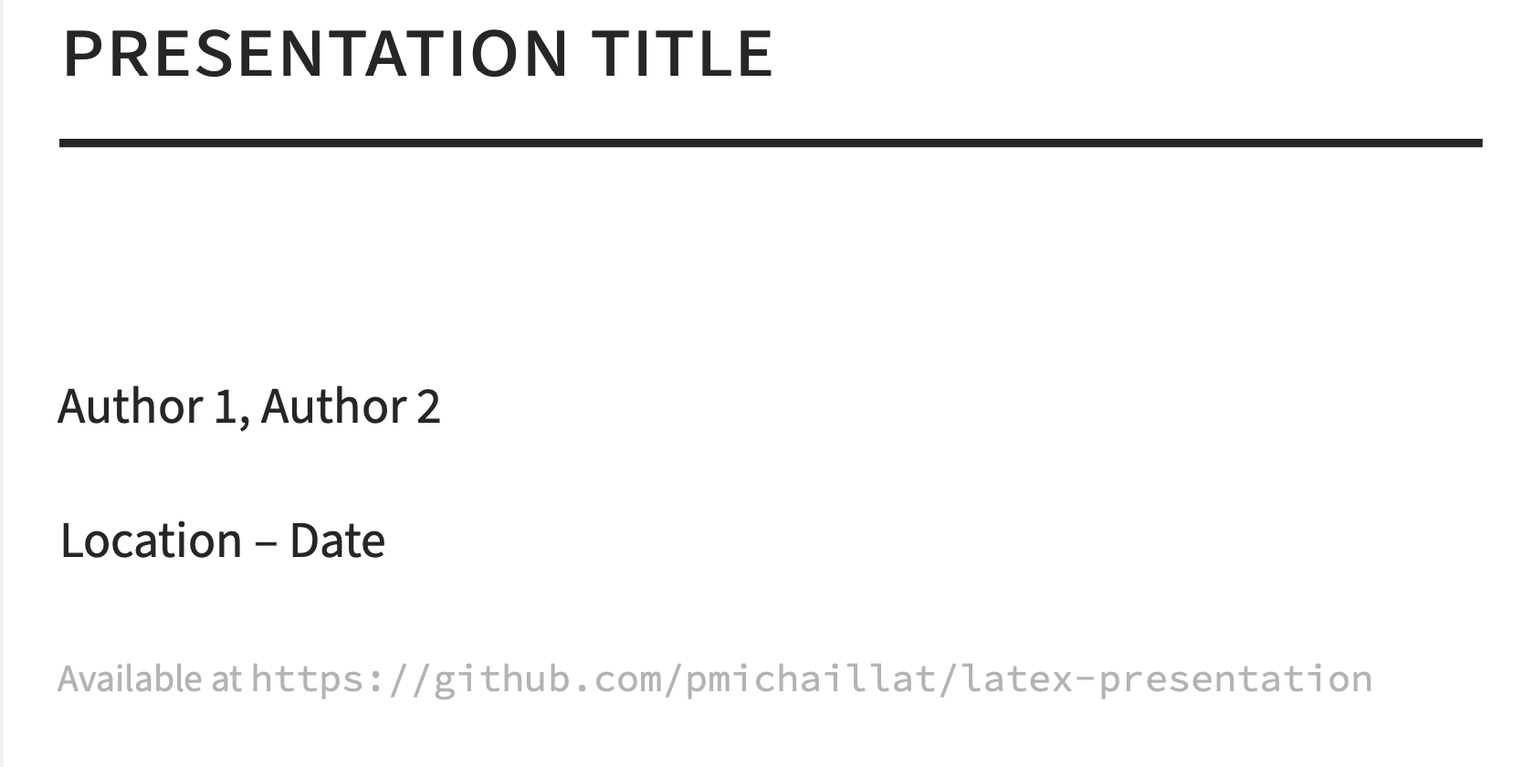
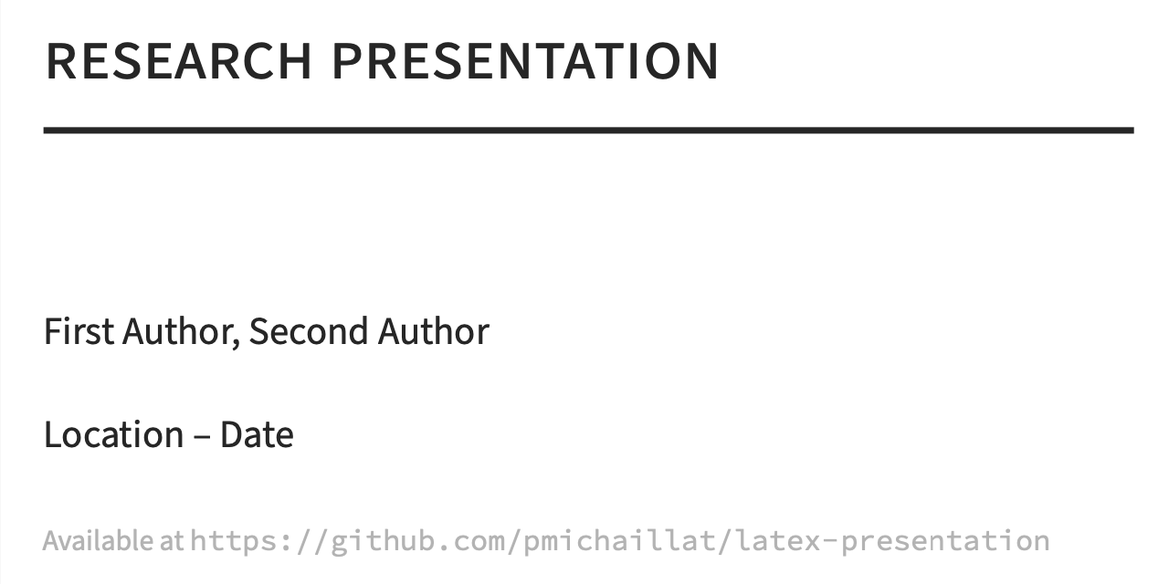
Update documentation of presentation template

diff --git a/content/design/d1.md b/content/design/d1.md
@@ -1,6 +1,7 @@
 ---
 title: "Minimalist LaTeX Template for Academic Presentations" 
 date: 2024-06-28
+lastmod: 2024-06-29
 url: /d1/
 author: "Pascal Michaillat"
 description: "This template produces an academic presentation with LaTeX and Beamer. The presentation follows typographical best practices and has a minimalist design."
@@ -30,34 +31,34 @@ The template produces an academic presentation using [LaTeX](https://www.latex-p
 
 ## Features
 
-+ The aspect ratio is set to 4:3.
++ The aspect ratio is 4:3.
 + There are no frills at the periphery of the slides.
 + The font for text, roman math, and numbers is Source Sans Pro.
 + The font for monospaced text (including URLs) is Source Code Pro.
 + The font for Greek and calligraphic math is Euler.
 + The font for blackboard bold is Fourier.
 + The font for mathematical symbols is MnSymbol.
-+ No colors are used in the text (only grayscale) to reduce distraction; colors are reserved for graphs and alerts.
++ No colors are used in the text (only grayscale) to reduce distraction; colors are reserved for figures and text alerts.
 + Margins, spacing, and font size are set for comfortable reading.
-+ Formatting is specified for figures and tables.
 + Formatting is specified for theorems, propositions, lemmas, definitions, assumptions, corollaries, and remarks.
++ Formatting is specified for figures and tables.
 + Section slides and final slide can easily be inserted into the presentation.
 
 <div class="thinline"></div>
 
 ## 4:3 versus 16:9 aspect ratio
 
-There has been a shift from slides with a 4:3 aspect ratio to wider slides with a 16:9 aspect ratio. This template sticks to the 4:3 aspect ratio. 
+There has been a shift from slides with a 4:3 aspect ratio to wider slides with a 16:9 aspect ratio. This template sticks to the traditional 4:3 aspect ratio. 
 
 First, 4:3 slides are more robust. They are easily readable will all projectors, both new and old. By contrast, the text of 16:9 slides becomes very small when they are displayed on old 4:3 projectors.
 
-Second, 4:3 slides are better at effectively presenting supporting information. And slides are here as support, not as a substitute, for what the speaker is talking about. 4:3 slides force presenters to display only essential information on slides—leading to more effective presentations. 16:9 slides are often used to present two graphs at a time, or two paragraphs at a time, or a graph with some side text. This is confusing and possibly distracting for the audience, who does not know what to look at, and may be looking at the wrong part of the slide. 4:3 slides can only display one graph or one paragraph at a time—focusing the attention of the audience on that one piece of information. 
+Second, 4:3 slides are better at effectively presenting supporting information. And slides are here as support, not as a substitute, for what the speaker is talking about. 4:3 slides force presenters to display only essential information on slides—leading to more effective presentations. 16:9 slides are often used to present two graphs at a time, or two paragraphs at a time, or a graph with some side text. This is confusing and possibly distracting for listeners, who do not know what to look at, and may be looking at the wrong part of the slide. 4:3 slides can only display one graph or one paragraph at a time—focusing the attention of the audience on that one piece of information. 
 
 Third, lines of text on 16:9 slides are often excessively long. The lines cannot be read at one glance, so reading them distracts from the presentation. 
 
 Fourth, 4:3 slides work better on tablets because most tablets have a 4:3 aspect ratio (iPads for instance). It has becomes very common to read or display slides on tablets, or watch online presentation on tablets. In that context, 4:3 slides display better.
 
-Sometimes, however, host institutions or conferences require to use 16:9 aspect ratio. The template can be adjusted to produce such slides. Just add the `aspectratio=169` option to the `\documentclass` command. Specifically, to produce a 16:9 presentation, the first line of the `presentation.tex` file should be:
+Sometimes, however, host institutions or conferences require presenters to use 16:9 aspect ratio. The template can be adjusted to produce such slides. Just add the `aspectratio=169` option to the `\documentclass` command. Specifically, to produce a 16:9 presentation, the first line of `presentation.tex` should be:
 
 ```tex
 \documentclass[11pt,aspectratio=169,xcolor={dvipsnames},hyperref={pdftex,pdfpagemode=UseNone,hidelinks,pdfdisplaydoctitle=true},usepdftitle=false]{beamer}
@@ -67,27 +68,45 @@ Sometimes, however, host institutions or conferences require to use 16:9 aspect 
 
 ## Text font
 
-Fonts matter in presentations—just as in papers. The font determines the appearance of the entire presentation. For the presentation's text, the template uses [Source Sans Pro](https://www.fontsquirrel.com/fonts/source-sans-pro), which is one of the free fonts [recommended by Matthew Butterick](https://practicaltypography.com/free-fonts.html).
+Fonts matter in presentations—just as in papers. The font determines the appearance and readability of the entire presentation. For the presentation's text, the template uses [Source Sans Pro](https://mirror.las.iastate.edu/tex-archive/fonts/sourcesanspro/doc/sourcesanspro.pdf), which is one of the free fonts [recommended by Matthew Butterick](https://practicaltypography.com/free-fonts.html).
 
-Source Sans Pro is a sans-serif font. This is an important feature for presentations, as sans-serif fonts are more readable than fonts with serif in presentations. Another advantage of Source Sans Pro is that it is not part of typical slide templates (unlike Fira Sans for instance),  so it feels new and fresh. And since Source Sans Pro was designed in the last decade, it also feels modern.
+Source Sans Pro is a sans-serif font. This is an important feature, as sans-serif fonts are more readable than fonts with serif in presentations. Another advantage of Source Sans Pro is that it is not part of typical slide templates (unlike Fira Sans for instance), so it feels new and fresh. And since Source Sans Pro was designed in the last decade, it also feels modern.
 
-Moreover, the Source Pro family includes a very nice monospaced font: [Source Code Pro](https://www.fontsquirrel.com/fonts/source-code-pro). The template uses Source Code Pro as monospaced font—giving the monospaced text and regular text a similar look. The monospaced font is used in particular to typeset URLs.
+Moreover, the Source Pro family includes a nice monospaced font: [Source Code Pro](https://mirrors.rit.edu/CTAN/fonts/sourcecodepro/doc/sourcecodepro.pdf). The template uses Source Code Pro as monospaced font—giving the monospaced text and regular text a similar look. The monospaced font is used in particular to typeset URLs.
 
-Another advantage of Source Sans Pro is that there is a with-serif font in the Source Pro family: [Source Serif Pro](https://www.fontsquirrel.com/fonts/source-serif-pro). This [paper template](/d2/) uses Source Serif Pro, which gives presentations and papers produced by the two templates a similar look.
+Another advantage of Source Sans Pro is that it comes with a broad range of weight. For instance, the template uses the semibold font weight in places. To activate the semibold font instead of the usual bold font, use `\sbseries` and `\textsb{}` instead of `\bfseries` and `\textbf{}`.
+
+A last advantage of Source Sans Pro is that there is a with-serif font in the Source Pro family: [Source Serif Pro](https://mirror.las.iastate.edu/tex-archive/fonts/sourceserifpro/doc/sourceserifpro.pdf). This [paper template](/d2/) uses Source Serif Pro, which gives the presentations and papers produced by the two templates a similar look.
 
 <div class="thinline"></div>
 
-## Math font
+## Math fonts
 
-LaTeX uses one font for text and other fonts for math. For consistency, the template sticks with Source Sans Pro for roman math. It also uses Source Sans Pro for all the numbers in math and for very basic math symbols (such as `+`, `.`, `–`, `?`, `/`, `%`, `=`), so very basic mathematical expressions look the same in math and text. For example, the commands `1+5` and `$1+5$` produce the same result. The same is true of the command `3\% + 5\% = 0.08` and `$3\% + 5\% = 0.08$`.
+LaTeX uses one font for text and other fonts for math. For consistency, the template sticks with [Source Sans Pro for roman math](https://ctan.mirrors.hoobly.com/macros/latex/contrib/mathastext/mathastext.pdf). It also uses Source Sans Pro for all the digits in math and basic punctuation (such as `.`, `?`, `%`, `;`, and `,`), so very basic mathematical expressions look the same in math and text. For example, the commands `3.5\%` and `$3.5\%$` produce the same results.
 
-There are some sans-serif Greek alphabets, but the letters look unusual and are hard to recognize. So for the Greek letters in math, the template uses the [Euler font](http://luc.devroye.org/fonts-26139.html). These Greek letters look good, have the same thickness as the text letters, and are quite distinctive.
+### Greek letters
 
-The template also uses the Euler font for calligraphic letters in math. These calligraphic letters fit well with the rest of the text and are very readable.
+There are some sans-serif Greek alphabets, but the letters look unusual and are hard to recognize. So for the Greek letters in math, the template uses the [Euler font](https://ctan.math.utah.edu/ctan/tex-archive/fonts/eulervm/doc/latex/eulervm/eulervm.pdf). These Greek letters look good, have the same thickness and height as the text letters, and are distinctive. For consistency, neither uppercase nor lowercase Greek letters are italicized.
 
-The template uses a simple [geometric sans-serif font](https://ctan.org/pkg/bbold) as blackboard bold font. It is cleaner than the default blackboard bold font. And it includes not only roman letters but also Arabic numbers and Greek letters—which are often omitted in blackboard bold fonts.
+All the standard Greek letters are available. A few variants are available as well: `\varepsilon`, `\varpi`, `\varphi`, and `\vartheta`. The variants `\varrho`, `\varsigma`, and `\varkappa` are not available with the Euler font.
 
-Finally, the template use the Symbol font for many symbols in math. The default Computer Modern symbols are very light and thin in comparison to the Source Sans Pro and Euler letters, and as a result do not mix well with them. The advantage of the Symbol font is that its symbols are thicker, so they mix better with the letters. The symbols are also less curly, which gives them a more modern feel.
+### Calligraphic letters
+
+The template also uses the [Euler font](https://ctan.math.utah.edu/ctan/tex-archive/fonts/eulervm/doc/latex/eulervm/eulervm.pdf) for calligraphic letters in math. These calligraphic letters fit well with the other fonts and are very readable. The calligraphic letters are produced with the `\mathcal{}` command.
+
+### Blackboard-bold letters
+
+The template uses the [Fourier font](https://mirror.mwt.me/ctan/macros/latex/contrib/mathalpha/doc/mathalpha-doc.pdf) as blackboard-bold font. It is cleaner than the default blackboard-bold font as it does not have serif. And it is slightly thicker than the default font so it matches well with Source Sans Pro and the Euler letters. The blackboard-bold letters are produced with the `\mathbb{}` command. 
+
+### Bold characters
+
+In the template, it is possible to bold any mathematical character (except blackboard-bold letters). This can be done using the `\bm{}` command in math. 
+
+### Mathematical symbols
+
+Finally, the template use the [MnSymbol font](https://ftp.yz.yamagata-u.ac.jp/pub/CTAN/fonts/mnsymbol/MnSymbol.pdf) for the symbols used in math mode. The default Computer Modern symbols are too light and thin in comparison to the Source Sans Pro and Euler letters, and as a result do not mix well with them. The advantage of the MnSymbol font is that its symbols are thicker, so they mix better with the letters. The symbols are also less curly, which gives them a more modern feel.[^1] 
+
+[^1]: The `MnSymbol` package is incompatible with the `amssymb` package. So it is not possible to load `amssymb` with the template. Neither should it be required since `MnSymbol` provides a vast collection of symbols.
 
 <div class="thinline"></div>
 
@@ -101,7 +120,7 @@ The template keeps one font size for all text. So the text is not smaller at dif
 
 ## Line spacing
 
-The line spacing is generous: 150% of the point size. This adds white space to the presentation, which helps with reading, and it limits the amount of stuff that can be written on one slide. There is a small amount of additional vertical spacing between items in lists to separate the items better. 
+The line spacing is 150% of the point size. This adds white space to the presentation, which helps with reading, and it limits the amount of stuff that can be written on one slide. There is a small amount of additional vertical spacing between items in lists to separate the items better. 
 
 <div class="thinline"></div>
 
@@ -113,7 +132,11 @@ The information on the title slide, section titles, frame titles, and regular te
 
 ## Color scheme
 
-[As Butterick says](https://practicaltypography.com/presentations.html), color should be used with restraint. A lot of colors, especially bright ones, are distracting. To reduce distraction, the template only uses grayscale. The text is in dark gray (85% black), not complete black, to avoid an uncomfortable degree of contrast. The list items (bullet points and numbers) are in lighter gray, to blend in the background.  Colors are reserved for graphs and text alerts. The typical, bright Beamer bullet points should be avoided as they are distracting.
+[As Butterick says](https://practicaltypography.com/presentations.html), color should be used with restraint. A lot of colors, especially bright ones, is distracting. To reduce distraction, the template only uses grayscale. The text is in dark gray (85% black), not complete black, to avoid an uncomfortable degree of contrast. The list items—bullet points and numbers—are in lighter gray, to blend in the background.[^2] Colors are reserved for figures and text alerts. 
+
+The typical, bright Beamer bullet points, headers, and footers, should be avoided as they are distracting.
+
+[^2]: The template customizes formatting for three levels of itemized and numbered lists. More deeply nested lists should be avoided as they are a sign that the presentation's organization is too messy.
 
 <div class="thinline"></div>
 
@@ -124,36 +147,35 @@ A [typical slide produced with Beamer](https://deic.uab.cat/~iblanes/beamer_gall
 + Outline of the talk above the title
 + Small navigation buttons in the bottom right-hand corner
 + Names of the authors and title of the talk at the bottom of the slide
-+ A lot of dark, sharp color at the top and bottom
 
 Such clutter distracts listeners and takes their attention away from the main message of the slide—while conveying no useful information. The audience does not need that information in the middle of the talk. The slides produced by the template are devoid of such frills. 
 
 In particular, the pesky navigation buttons are eliminated by placing 
-`\setbeamertemplate{navigation symbols}{} ` in the `presentation.sty` file.
+`\setbeamertemplate{navigation symbols}{} ` in `presentation.sty`.
 
 <div class="thinline"></div>
 
 ## Slide numbers
 
-By default the slides are not numbered. This seems better for most presentations. It seems that displaying slide numbers does nothing but makes the audience jittery at the thought of the sheer number of slides that remain to be covered in the talk.
+By default the slides are not numbered. This seems better for most presentations. Displaying slide numbers does nothing but makes the audience jittery at the thought of the sheer number of slides that remain to be covered in the talk.
 
-But for anyone who needs to share slide decks for comments, or who gives a presentation specifically to collect feedback, it might be helpful to have slides numbers—so the comments can be precisely linked to a slide. To introduce page numbers on slide, just comment the line `\setbeamertemplate{footline}{}` in the style file `presentation.sty`, and uncomment the line `\setbeamertemplate{footline}[frame number]`.
+But for anyone who wants to share the slide deck for comments, or who gives a presentation specifically to collect feedback, it might be helpful to have slides numbers—so the comments can be precisely linked to a slide. To introduce page numbers on slide, just uncomment the line `\setbeamertemplate{footline}[frame number]` in `presentation.sty`.
 
-With slide numbers, it is possible to remove the slide number from the title slide only. To do that, use \frame[plain]{\titlepage} instead of \frame{\titlepage} in `presentation.tex`. The page numbers will start appearing on the second slide.
+Once slide numbers are inserted at the bottom of all slides, it is possible to remove the slide number from the title slide. To do that, use `\frame[plain]{\titlepage}` instead of `\frame{\titlepage}` in `presentation.tex`. The page numbers will start appearing on the second slide.
 
 <div class="thinline"></div>
 
 ## Title slide
 
-The title slide avoids centered text and is otherwise pretty minimalist. The title is in large font (21pt), in small caps, and accentuated by a black line. Authors and dates are in slightly larger font than the text (12pt). The title slide also includes the permanent URL of the paper being presented. When the presentation is posted online, the URL allows readers to go from the presentation directly to the paper. The URL displayed in small font (9pt) and gray so as not to be too obtrusive.
+The title slide avoids centered text and is otherwise pretty minimalist. The title is in large font (21pt), in small caps, and accentuated by a black line. Authors and dates are in slightly larger font than the text (12pt). The title slide also includes the permanent URL of the paper being presented. When the presentation is posted online, the URL allows readers to go from the presentation directly to the paper. The URL is displayed in small font (9pt) and gray so is not too obtrusive.
 
-+ To specify the presentation authors, use the command `\information{Author 1, Author 2}`. 
-+ To add the location of the presentation or a date to the title page, add a second argument to the command:  `\information{Author 1, Author 2}{Location -- Date}`.
-+ The command takes an optional argument to specify the URL where the paper being presented can be found: `\information[URL]{Author 1, Author 2}{Location  -- Date}`. 
++ To specify the presentation authors, use the command `\information{First Author, Second Author}`. 
++ To add the location of the presentation or a date to the title page, add a second argument to the command:  `\information{First Author, Second Author}{Location -- Date}`.
++ The command takes an optional argument to specify the paper URL: `\information[URL]{First Author, Second Author}{Location -- Date}`. 
 
 <div class="thinline"></div>
 
-## Headline
+## Slide headline
 
 The headline is in somewhat larger font than the text (14pt), in small caps, and aligned left. This follows [Butterick's recommendation](https://practicaltypography.com/presentations.html) to avoid centered headlines. The headline stands out, is easily readable, but does not take all the attention away from the text. 
 
@@ -186,17 +208,33 @@ Of course alerts should be used with restraint.
 
 <div class="thinline"></div>
 
+## Theorems and other results
+
+As is standard, the text of theorems is in italic—providing subtle emphasis. The theorem label is in semibold—again providing subtle emphasis. To further emphasize theorems and clearly separate them from surrounding text, the template places theorems in a light gray rectangle with rounded corners.
+
+For consistency, propositions, lemmas, assumptions, definitions, and so on, are formatted just like theorems. The template comes with the following predefined environments:
+
++ Theorems: `\begin{theorem} ... \end{theorem}`
++ Propositions: `\begin{proposition} ... \end{proposition}`
++ Lemmas: `\begin{lemma} ... \end{lemma}`
++ Corollaries: `\begin{corollary} ... \end{corollary}`
++ Definitions: `\begin{definition} ... \end{definition}`
++ Assumptions: `\begin{assumption} ... \end{assumption}`
++ Remarks: `\begin{remark} ... \end{remark}`
+
+<div class="thinline"></div>
+
 ## Figures
 
 An advantage of avoiding colors in the text is that colors in figures stand out. 
 
 The template uses a white background for slides because figures have white backgrounds. Figures therefore seamlessly blend into the slide. With a colorful slide background, the figures background would stick out.
 
-There is no need to add a caption to the figure in the template: the slide title makes a great caption.
-
 Figures are centered by default. 
 
-An easy way to insert figures into the template is to create a PDF file with all the figures that are featured in the presentation. To do that, create a Keynote or Powerpoint presentation; insert each figure as a slide background; and save the resulting presentation as PDF. With this method, all the figures have the exact same size. It is also possible to use Keynote or Powerpoint to annotate easily the figures created with an external software (Matlab, R, and so on). (See `figures.pdf` in the repository.)
+The template is designed so the slide headline is used to caption the figure. It is not designed to accommodate a separate caption below the figure.
+
+An easy way to insert figures into the template is to create a PDF file with all the figures that are featured in the presentation. To do that, create a Keynote or Powerpoint presentation; insert each figure as a slide background; and save the resulting presentation as PDF. With this method, all the figures have the exact same size. It is also possible to use Keynote or Powerpoint to annotate the figures created with an external software (Matlab, R, Python). The file `figures.pdf` in the repository was created from MATLAB graphs by this method.
 
 The code for a slide with a basic figure is the following:
 
@@ -223,11 +261,11 @@ The code for a slide with multiple figures displayed sequentially is the followi
 
 ## Tables
 
-People sometimes copy-paste table from their paper into their slide. That's not a good idea since it is not possible to read large tables with tiny numbers on slides. It seems more effective to stick to the same font size, and just present the key numbers from the paper table. If listeners want more details, they will go to the paper.
-
-There is no need to add a caption to the table in the template: the slide title makes a great caption.
+People sometimes copy-paste tables from their papers into their slides. That's not a good idea since it is not possible to read large tables with tiny numbers on slides. It seems more effective to keep the same font size in tables as in the text, and just present in the slide tables the key numbers from the paper tables. If listeners want more details, they will go to the paper.
 
 Tables are centered by default, and fill the slide.
+
+Here too, the template is designed so the slide headline is used to caption the table. It is not designed to accommodate a separate caption below the table.
 
 The code for a slide with a basic table is the following:
 
@@ -261,7 +299,7 @@ The template has a command to divide the presentation into sections, which adds 
 \end{frame}
 ```
 
-The section title is in small caps, underlined like the presentation title, and with moderately large font (17pt).
+The text on the section slide is in small caps, and with moderately large font (17pt).
 
 This section slide is a good point to stop, recap what has already been showed, and discuss what comes ahead. It is also a good point to take questions.
 
@@ -269,11 +307,10 @@ This section slide is a good point to stop, recap what has already been showed, 
 
 ## Pictograms
 
-The template comes with a set of commands to display common pictograms in text mode:
+The template comes with a set of shortcuts to display common pictograms in text mode:
 
 + `\then` gives $\rightsquigarrow$
 + `\so` gives $\Rightarrow$
-+ `\iff` gives $\Leftrightarrow$
 + `\up` gives ↑
 + `\down` gives ↓
 + `\flat` gives →
@@ -282,27 +319,25 @@ The template comes with a set of commands to display common pictograms in text m
 
 ## Navigation buttons
 
-The template comes with navigation buttons. The buttons have white background, just like the slides, and the button text is gray and in small font (9pt). The buttons blend in the slide, unlike the typical, bright Beamer buttons that stand out and distract from the rest of the content.
+The template comes with navigation buttons. The buttons have white background, just like the slides. The button text is in light gray and small font (9pt). The buttons blend in the slides, unlike the typical, bright Beamer buttons that stand out and distract from the rest of the content.
 
 Navigation buttons should be used with restraint as hopping from slide to slide with buttons disrupts the flow of the presentation. But buttons are sometimes helpful to go to key backup material.
 
 Here is how to point a button to a specific slide:
 
 + Add a label at the top of the specific slide: `\begin{frame}[label=specificSlide]`.
-+ Create a button in another slide that points to the labelled slide: `\hyperlink{specificSlide}{\beamergotobutton{Go to a specific slide}}`.
++ Create a button in another slide that points to the labelled slide: `\hyperlink{specificSlide}{\beamergotobutton{Go to specific slide}}`.
 
 <div class="thinline"></div>
 
 ## Slide breaks
 
-Each slide should be prepared and planned carefully. There should be a reason why material is on a certain slide rather than on another slide. Nevertheless, sometimes, a slide contains too much material to fit on one slide, and it does not matter too much how the material is split across successive slides. One example is a slide with a long list of references. Another example is a slide with a long mathematical derivation or very long equation. In these cases, the option `allowframebreaks` can be used to split slides automatically, using the following code:
+Each slide should be prepared and planned carefully. There should be a reason why material is on a certain slide rather than on another slide. Nevertheless, sometimes, a slide contains too much material to fit on one slide, and it does not matter too much how the material is split across successive slides. One example is a slide with a long list of references. Another example is a slide with a long mathematical derivation. In these cases, the option `allowframebreaks` can be used to split slides automatically, using the following code:
 
 ```tex
 \begin{frame}[allowframebreaks]
 \frametitle{Slide title}
-
-Long list of references or long derivation or long equation.
-
+Long list of references or long derivation.
 \end{frame}
 ``` 
 
@@ -312,6 +347,6 @@ Each successive slide is automatically numbered with an Arabic number in square 
 
 ## Last slide
 
-The template also come with a last slide, which is a just a gray square, and which is called with `\lastslide`. The last slide can be used instead of conclusion slides—to say thank you, recap in a sentence what the presentation showed, and discuss next steps or related projects.
+The template also come with a last slide, which is a just a gray square, and which is called with the command `\lastslide`. The last slide can be used instead of conclusion slides—to say thank you, to recap what the presentation showed, and to discuss next steps or related projects.
 
 Conclusion slides are generally ineffective and even mildly upsetting. The audience has been listening for an hour or an hour and a half. They know what they have just been told. At that point they are happy to go on with their day without having to hear again a summary of the same material.
